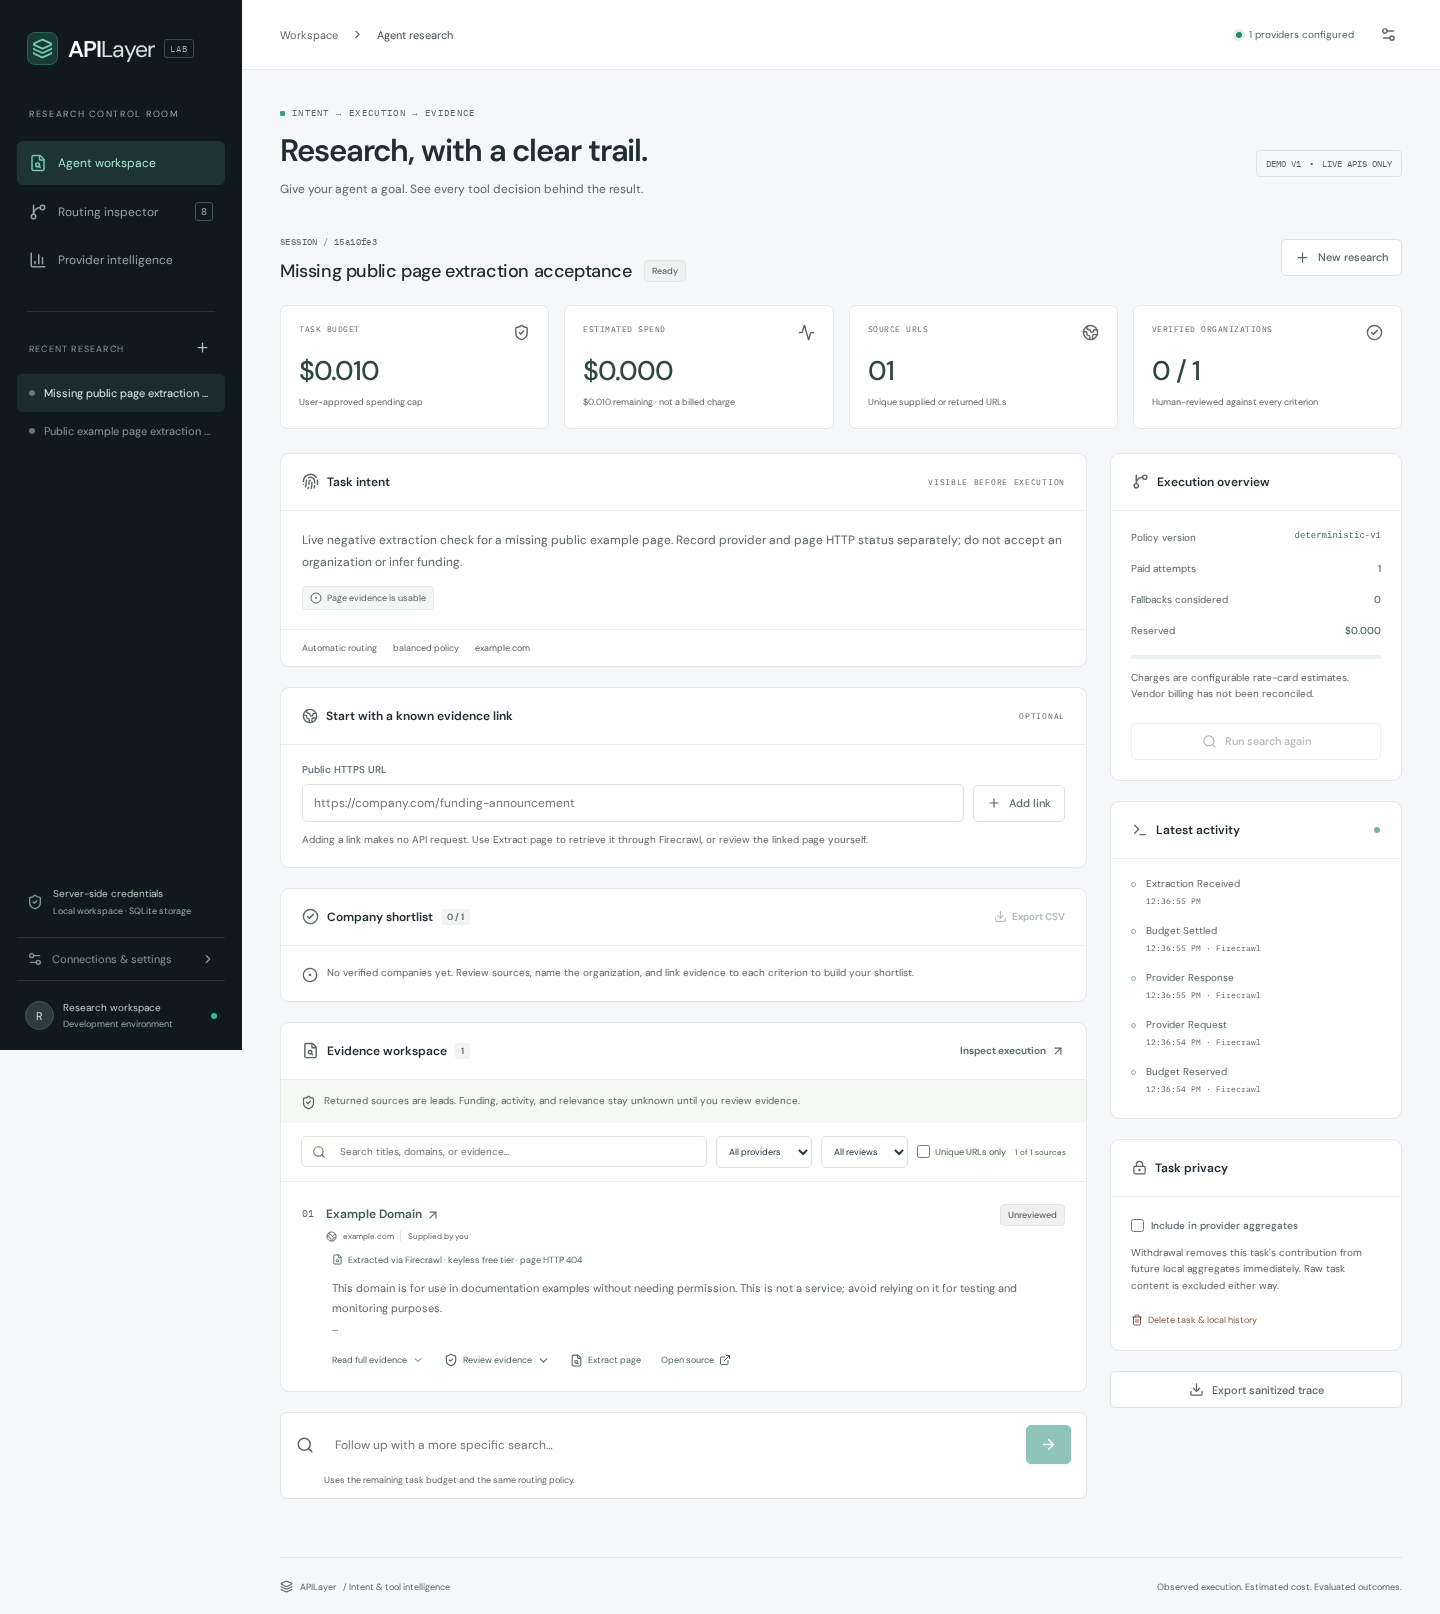
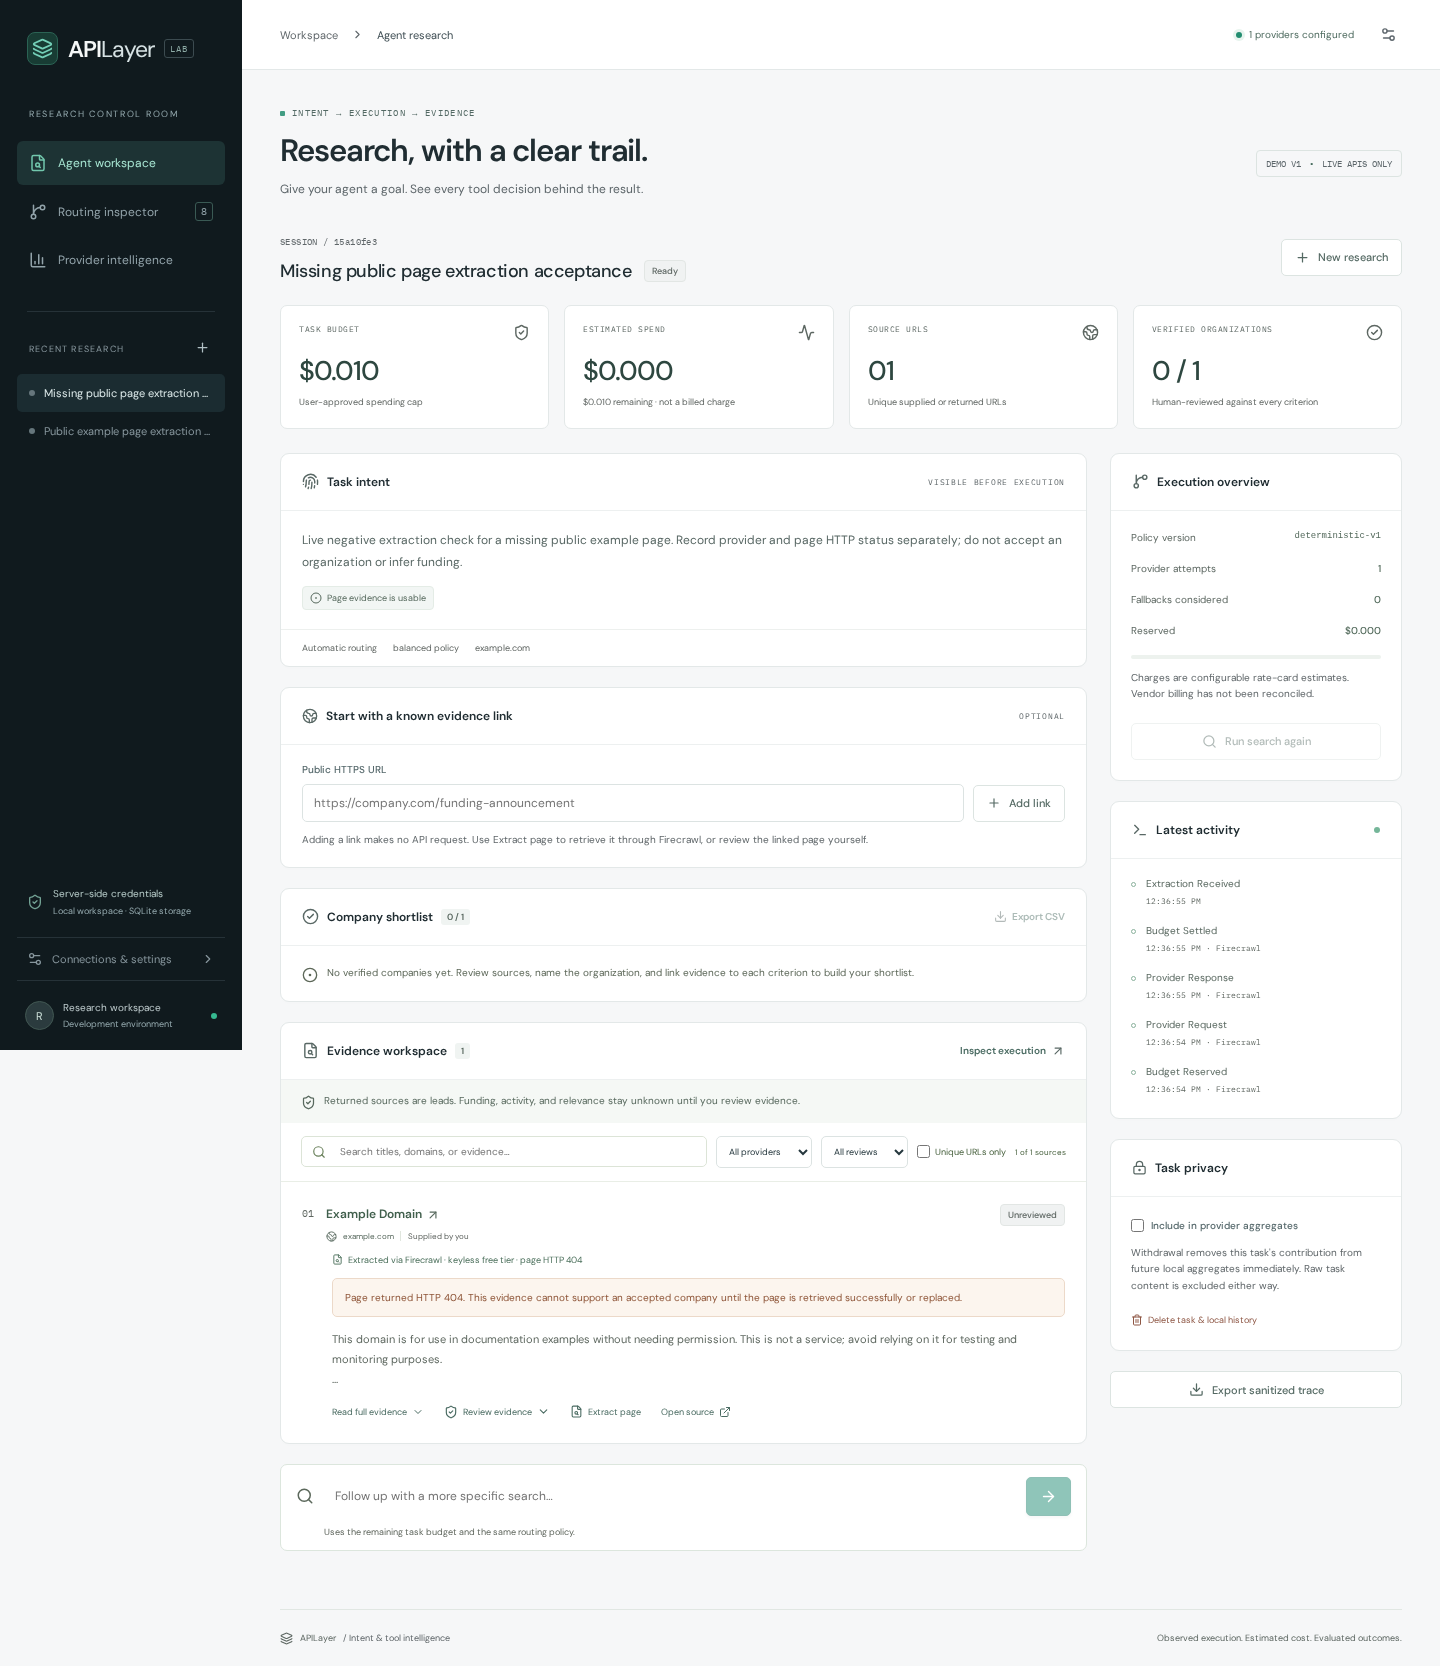
Complete packaged runtime checks and document live acceptance evidence

diff --git a/src/App.tsx b/src/App.tsx
@@ -582,8 +582,9 @@ export function App() {
                             />
                           </div>
                           <p className="tiny muted">
-                            Charges are configurable rate-card estimates. Vendor
-                            billing has not been reconciled.
+                            Keyless requests use the free tier. Other costs use
+                            the configured rate card and are estimates, not
+                            invoice charges.
                           </p>
                           <button
                             className="button secondary full"

diff --git a/docs/VALIDATION.md b/docs/VALIDATION.md
@@ -41,3 +41,16 @@ No deployment, buyer interviews, vendor redistribution permissions, revenue, wil
 7. Review evidence links against every criterion; record unknowns and missing proof. Accept only grounded organizations, then export the shortlist.
 8. Collect at least five explicitly consented tasks before reviewing aggregate provider metrics. Validate provider subcohort suppression.
 9. Interview five potential API-provider buyers and record which observed metrics are useful, unhelpful, or potentially worth paying for. Do not infer commercial demand from the dashboard itself.
+
+## PRD acceptance evidence matrix
+
+| PRD criterion                                                                        | Evidence now available                                                                                                      | Remaining dependency                                                                                             |
+| ------------------------------------------------------------------------------------ | --------------------------------------------------------------------------------------------------------------------------- | ---------------------------------------------------------------------------------------------------------------- |
+| Every executed operation has task/call identity, timestamps, status and ledger entry | Engine/API tests; real Firecrawl success and missing-page traces; transactional reservations and repeat-request receipts    | Continue this instrumentation on authenticated search accounts                                                   |
+| Two comparable search providers are genuinely called                                 | Exa and Tavily REST contract tests; separate successful official Exa MCP probe                                              | Ten successful Exa REST and Tavily calls with legitimate server-side keys; MCP is not counted as REST acceptance |
+| Explain provider selection and show actual fallback or comparison                    | Deterministic candidate snapshots and replay; fixture-backed fallback/comparison tests                                      | A live Exa/Tavily fallback or controlled comparison after account setup                                          |
+| Distinguish API success from task usefulness                                         | Real Firecrawl API HTTP 200 with page HTTP 404, unusable evidence and no accepted company; replayable without keys          | Review substantive company funding/activity/relevance evidence on a live research task                           |
+| Three cross-provider insights traceable to permitted events                          | Consent/cohort-gated conversion, demand, and coverage/fallback metrics; tests verify no double counting or content exposure | A real consented cross-provider cohort; no production demand or quality benchmark is claimed yet                 |
+| Buyer validation                                                                     | Interview procedure and metrics hypothesis are documented                                                                   | Five actual buyer interviews; no outreach or purchasing claim was fabricated                                     |
+
+The application is ready for a local demonstration of routing instrumentation, evidence lifecycle controls, and a genuine recorded outcome failure. This matrix keeps account-dependent search validation and commercial validation explicit rather than marking them complete because the UI or fixture suite works.

diff --git a/docs/TEST_IMPROVEMENT_PLAN.md b/docs/TEST_IMPROVEMENT_PLAN.md
@@ -53,3 +53,5 @@ Started 1 November 2026, 12:22 UTC. Scope: one additional hour of implementation
 ## Second-pass verification checkpoint
 
 71 unit/integration tests pass, including a real subprocess kill/restart test. The desktop/mobile suite has 20 passing scenarios, including historical replay without any provider operation, evidence invalidation, consent withdrawal/deletion, a page-404/API-200 distinction, and protection against delayed older task responses. Account-dependent Exa/Tavily REST acceptance remains blocked, with the exact key handoff described in LIVE_VALIDATION.md.
+
+- The packaged non-root runtime also serves historical recordings, preserves user-input source provenance across restart, rejects unconfigured search/extraction, and blocks a concurrent retention process from acquiring its live database. These checks make no external API request.

diff --git a/docs/LIVE_VALIDATION.md b/docs/LIVE_VALIDATION.md
@@ -34,6 +34,8 @@ The source was `https://example.com/apilayer-validation-not-found`. The successf
 
 Open Routing inspector and select **Historical live: API 200 / page 404**. The banner marks it historical, read-only, sanitized, and captured on the date above. Replay makes no provider request, creates no workspace task, and contributes nothing to provider analytics. Live workspace traces remain a separate selection. The downloaded recording is sanitized again by the same shared field allowlist as the server export.
 
+![Read-only historical replay](screenshots/historical-recording.png)
+
 ## Reviewable evidence
 
 - [Successful keyless extraction: sanitized trace](live-validation/firecrawl-keyless-success.json)
